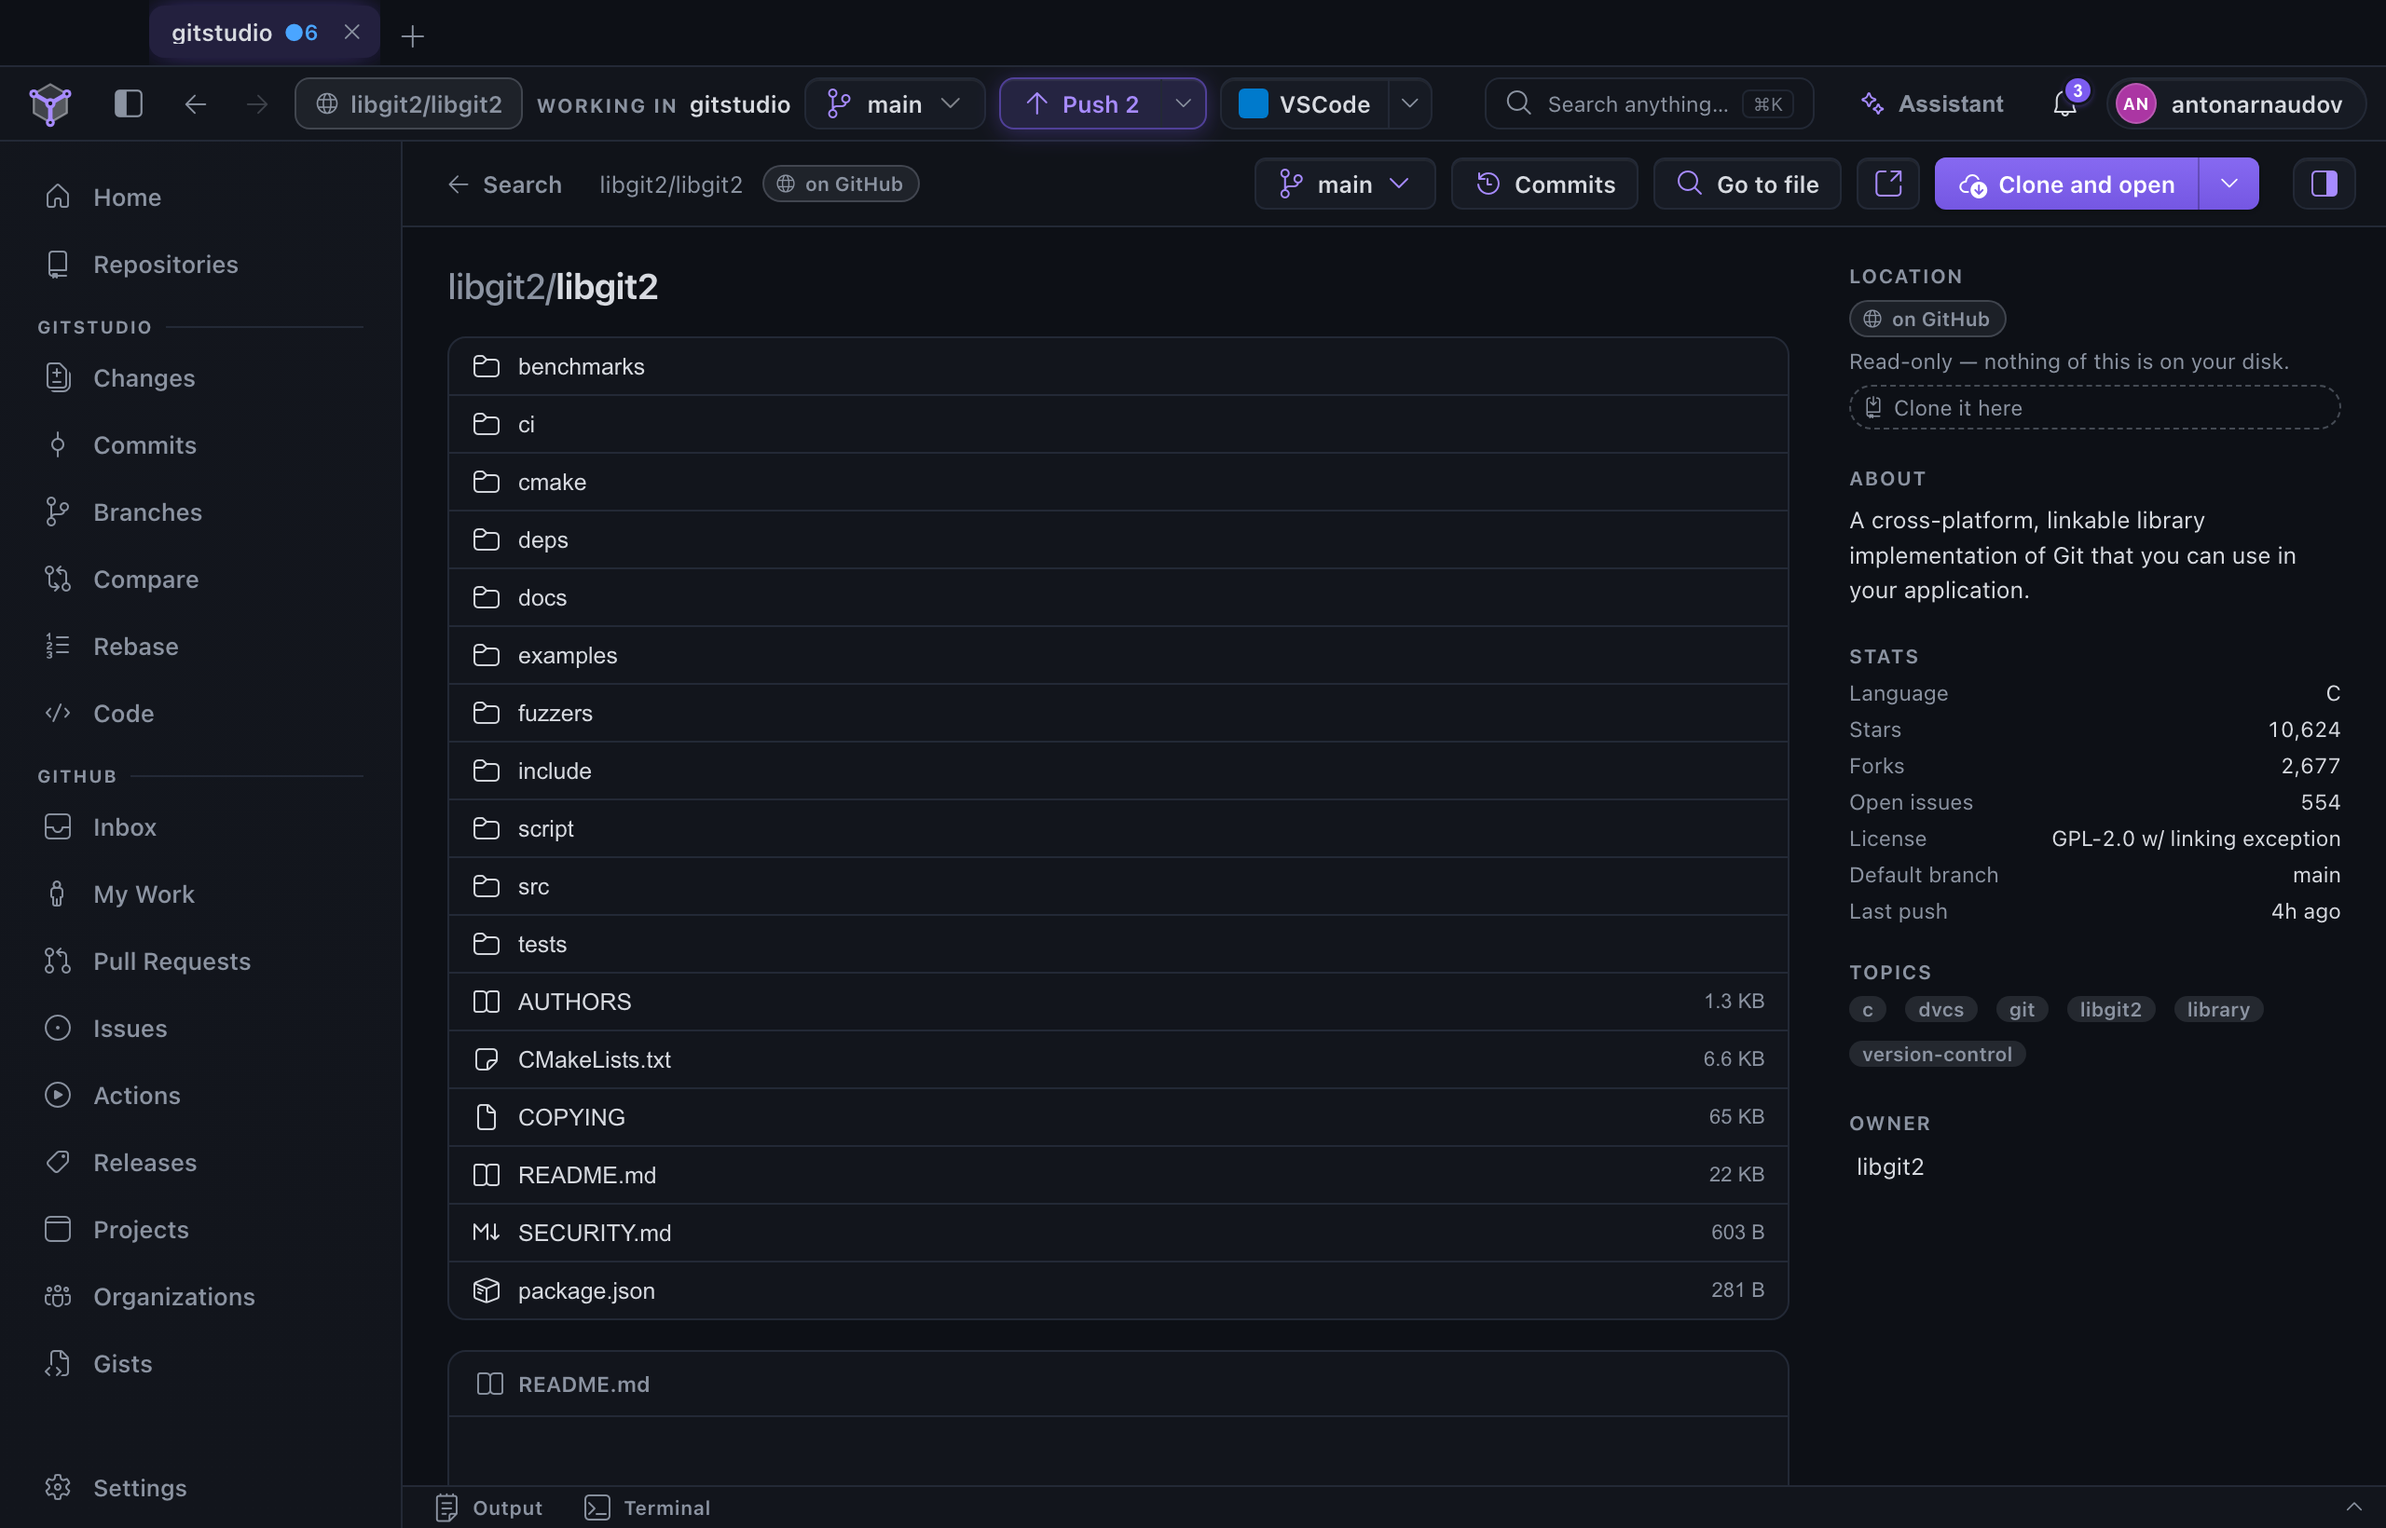
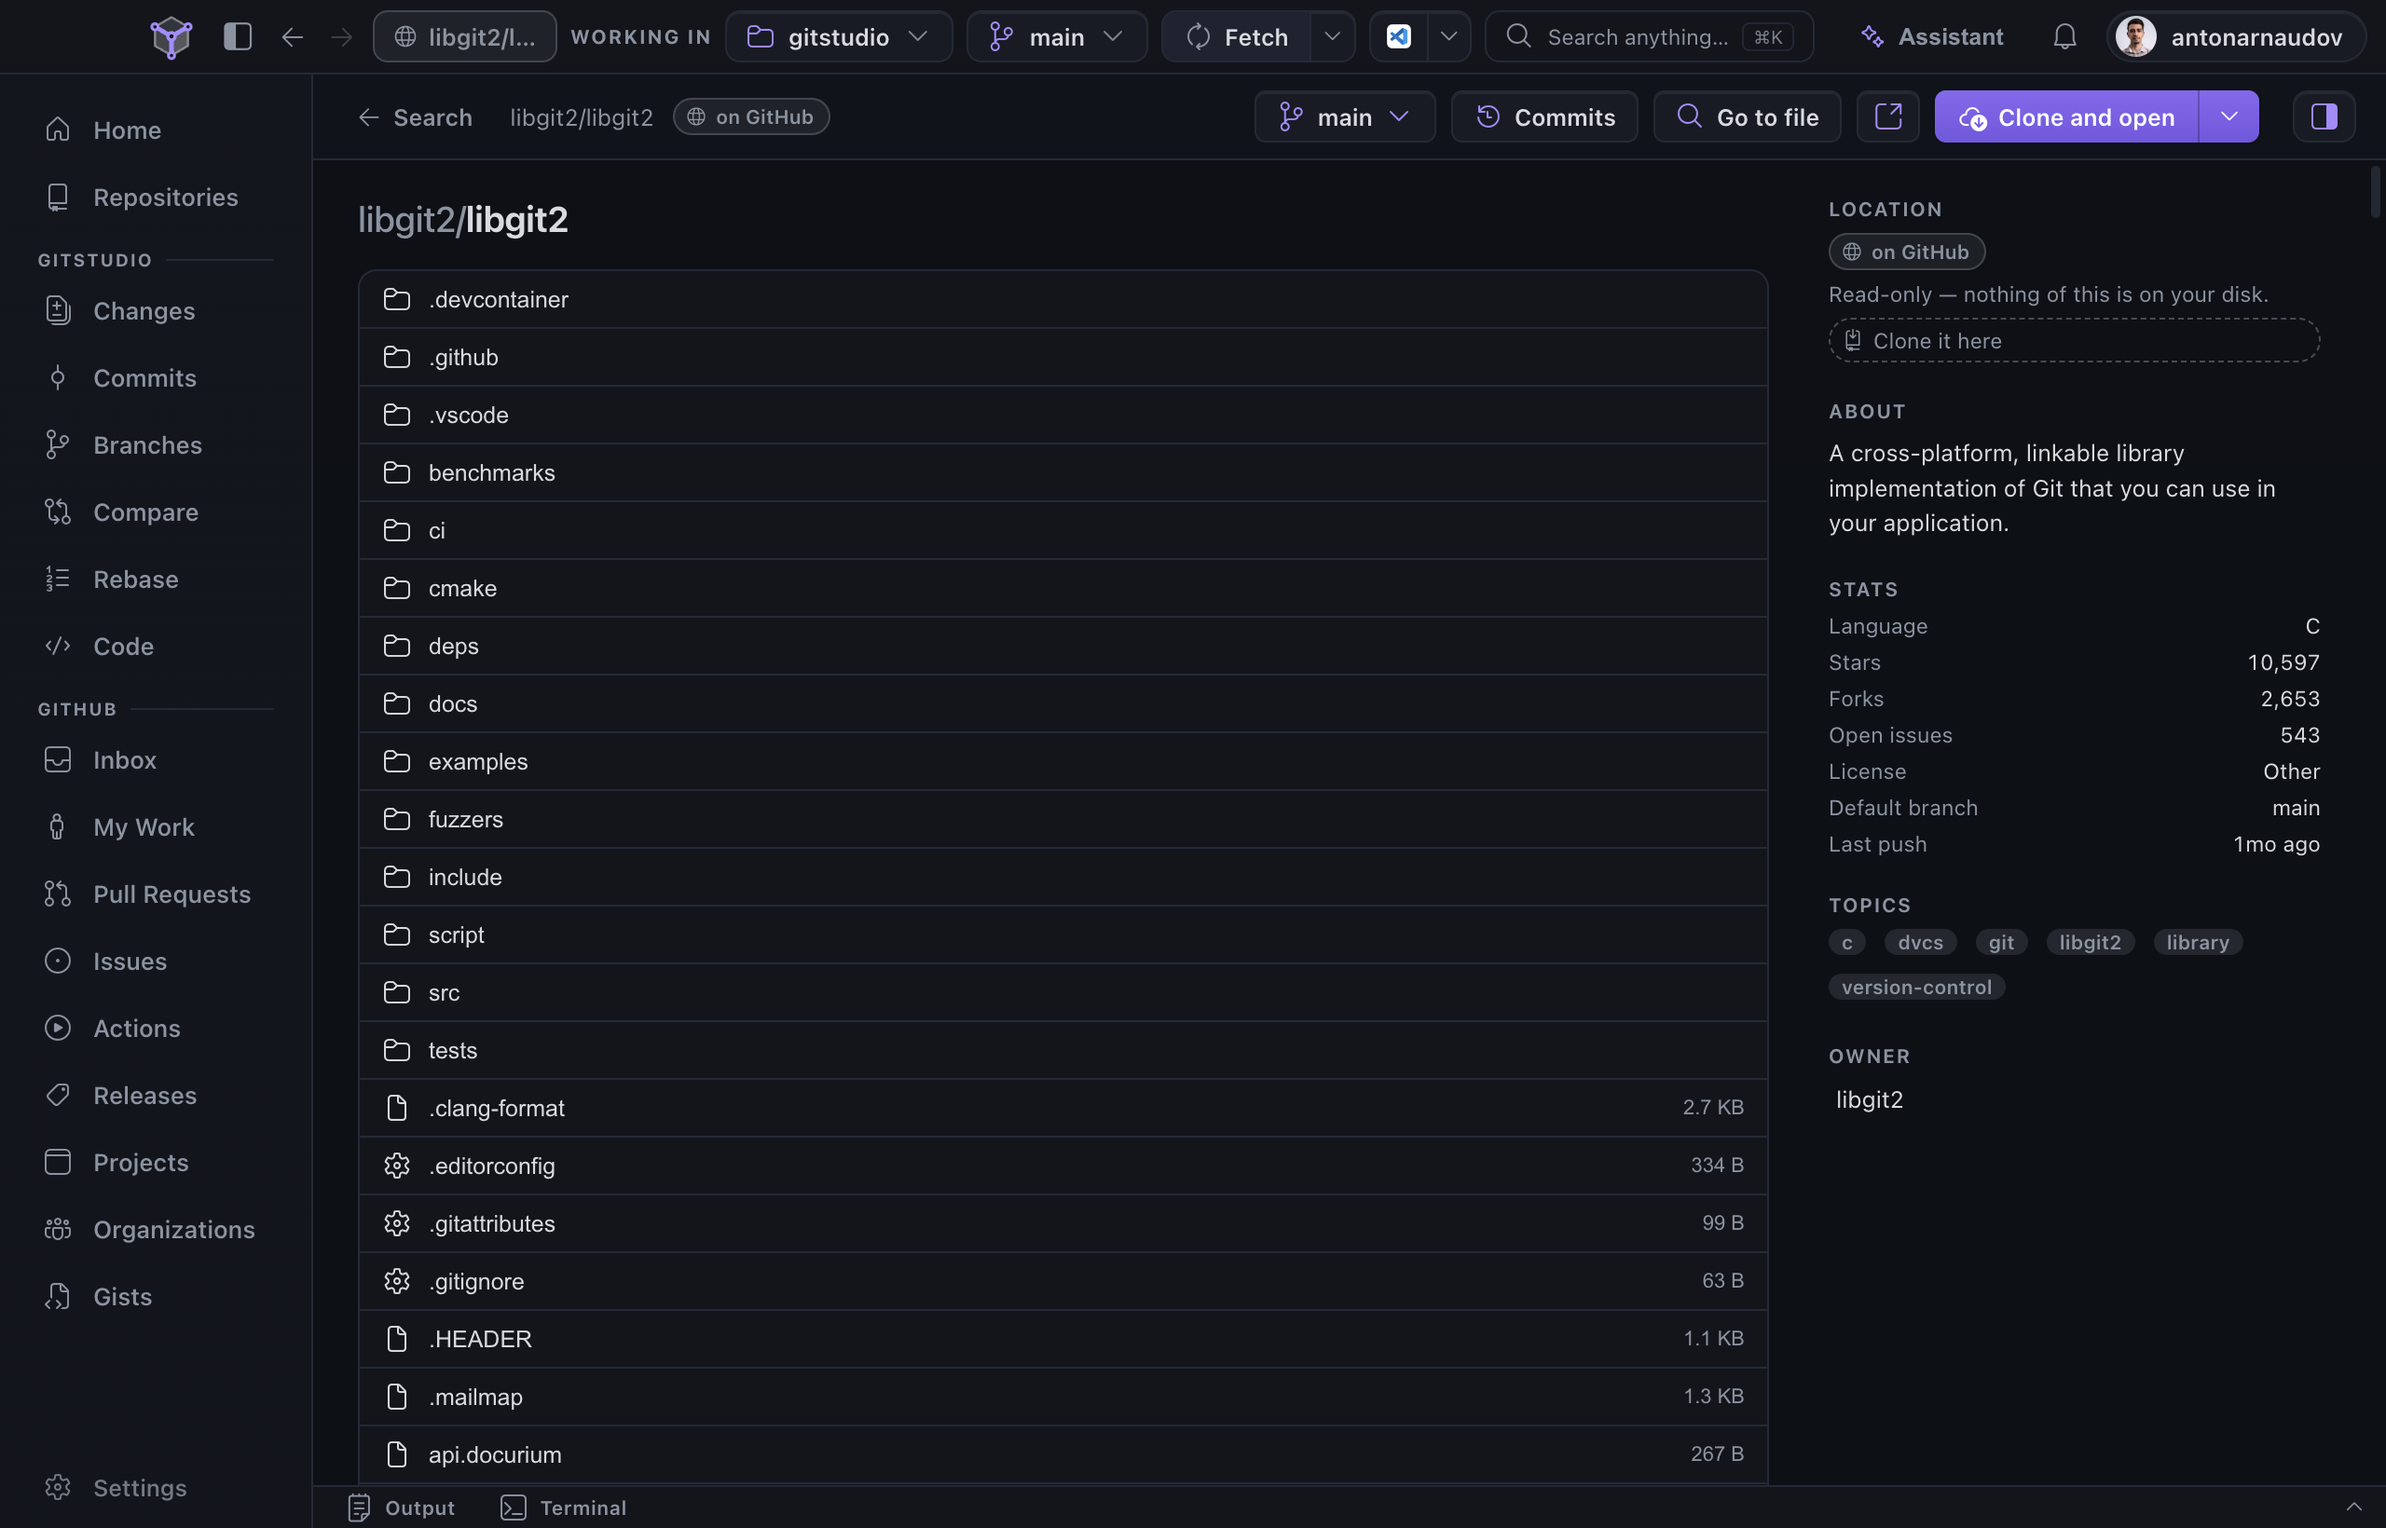
Take down the staged screenshots; fallback facts at 2.6; graph lines on phones
#13: the pull request, browse and assistant shots came from the renderer's
test harness, and the pull request one showed real GitHub users reviewing a
PR that does not exist. Until real captures replace them, the home page
shows the real 2.0 captures again (PR #22, libgit2, the LM Studio run), with
their 2.0 captions. The graph panel's alt text no longer names a tag the
image does not show. The fallback facts in consts.ts are those of extension
1.19.0, Merge Studio 1.4.0 and desktop 2.6.0.

Phones: the hero's lanes were cropped to the drawing's empty middle, and the
page's faint lanes were off below 1360px. The hero now has a portrait
version of the same drawing under 720px, with a soft clearing behind the
headline, and the page lanes run at half size just inside each screen edge.

diff --git a/src/consts.ts b/src/consts.ts
@@ -31,21 +31,21 @@ export const EXT = {
 	product: 'the GitStudio extension',
 	route: '/gitstudio-extension',
 	id: 'gitstudio.gitstudio',
-	version: '1.16.0',
+	version: '1.19.0',
 	license: 'Apache-2.0',
 	marketplaceUrl: 'https://marketplace.visualstudio.com/items?itemName=gitstudio.gitstudio',
 	openVsxUrl: 'https://open-vsx.org/extension/gitstudio/gitstudio',
 	// The VSIX is the GitHub release asset, not a copy in public/: the copy
 	// sat at 1.0.0 for twelve extension releases. Size and SHA-256 are of the
 	// ext-v* release asset (shasum -a 256 gitstudio.vsix).
-	vsixPath: 'https://github.com/GitStudioHQ/gitstudio/releases/download/ext-v1.16.0/gitstudio.vsix',
+	vsixPath: 'https://github.com/GitStudioHQ/gitstudio/releases/download/ext-v1.19.0/gitstudio.vsix',
 	vsixFile: 'gitstudio.vsix',
-	vsixSizeMb: '3.1',
[1 lines of base64/hex data omitted]
+	vsixSizeMb: '4.3',
[1 lines of base64/hex data omitted]
 	// engines.vscode in the shipped package.json.
 	minVsCode: '1.78',
 	// contributes.commands in the shipped package.json.
-	commands: 137,
+	commands: 138,
 };
 
 /** Merge Studio — live on both registries. */
@@ -54,7 +54,7 @@ export const MERGE = {
 	product: 'the Merge Studio extension',
 	route: '/merge-studio-extension',
 	id: 'gitstudio.merge-studio',
-	version: '1.1.0',
+	version: '1.4.0',
 	// Merge Studio's own files are MIT; the GitStudio merge packages it bundles
 	// are Apache-2.0 (package.json: "MIT AND Apache-2.0", see its NOTICE).
 	license: 'MIT + Apache-2.0',
@@ -63,12 +63,12 @@ export const MERGE = {
 	marketplaceUrl: 'https://marketplace.visualstudio.com/items?itemName=gitstudio.merge-studio',
 	openVsxUrl: 'https://open-vsx.org/extension/gitstudio/merge-studio',
 	minVsCode: '1.82',
-	vsixSizeMb: '3.2',
+	vsixSizeMb: '3.8',
 	// Average rating on the Marketplace (3 ratings, checked 2026-09-29).
 	marketplaceStars: 5.0,
 };
 
-const APP_VERSION = '2.3.0';
+const APP_VERSION = '2.6.0';
 const APP_TAG = `app-v${APP_VERSION}`;
 const APP_DL = `https://github.com/GitStudioHQ/gitstudio/releases/download/${APP_TAG}`;
 
@@ -162,9 +162,9 @@ export const registryUrl = (
  * GitHub release. A fallback count is printed with a trailing "+".
  */
 export const FALLBACK_COUNTS = {
-	ext: { marketplaceInstalls: 531, openVsxDownloads: 8738, rating: 5.0, ratingCount: 2 },
-	ms: { marketplaceInstalls: 576, openVsxDownloads: 2810, ratingCount: 3, commands: 13 },
-	app: { downloads: 466 },
+	ext: { marketplaceInstalls: 700, openVsxDownloads: 10157, rating: 5.0, ratingCount: 4 },
+	ms: { marketplaceInstalls: 681, openVsxDownloads: 3859, ratingCount: 3, commands: 14 },
+	app: { downloads: 678 },
 };
 
 /**
